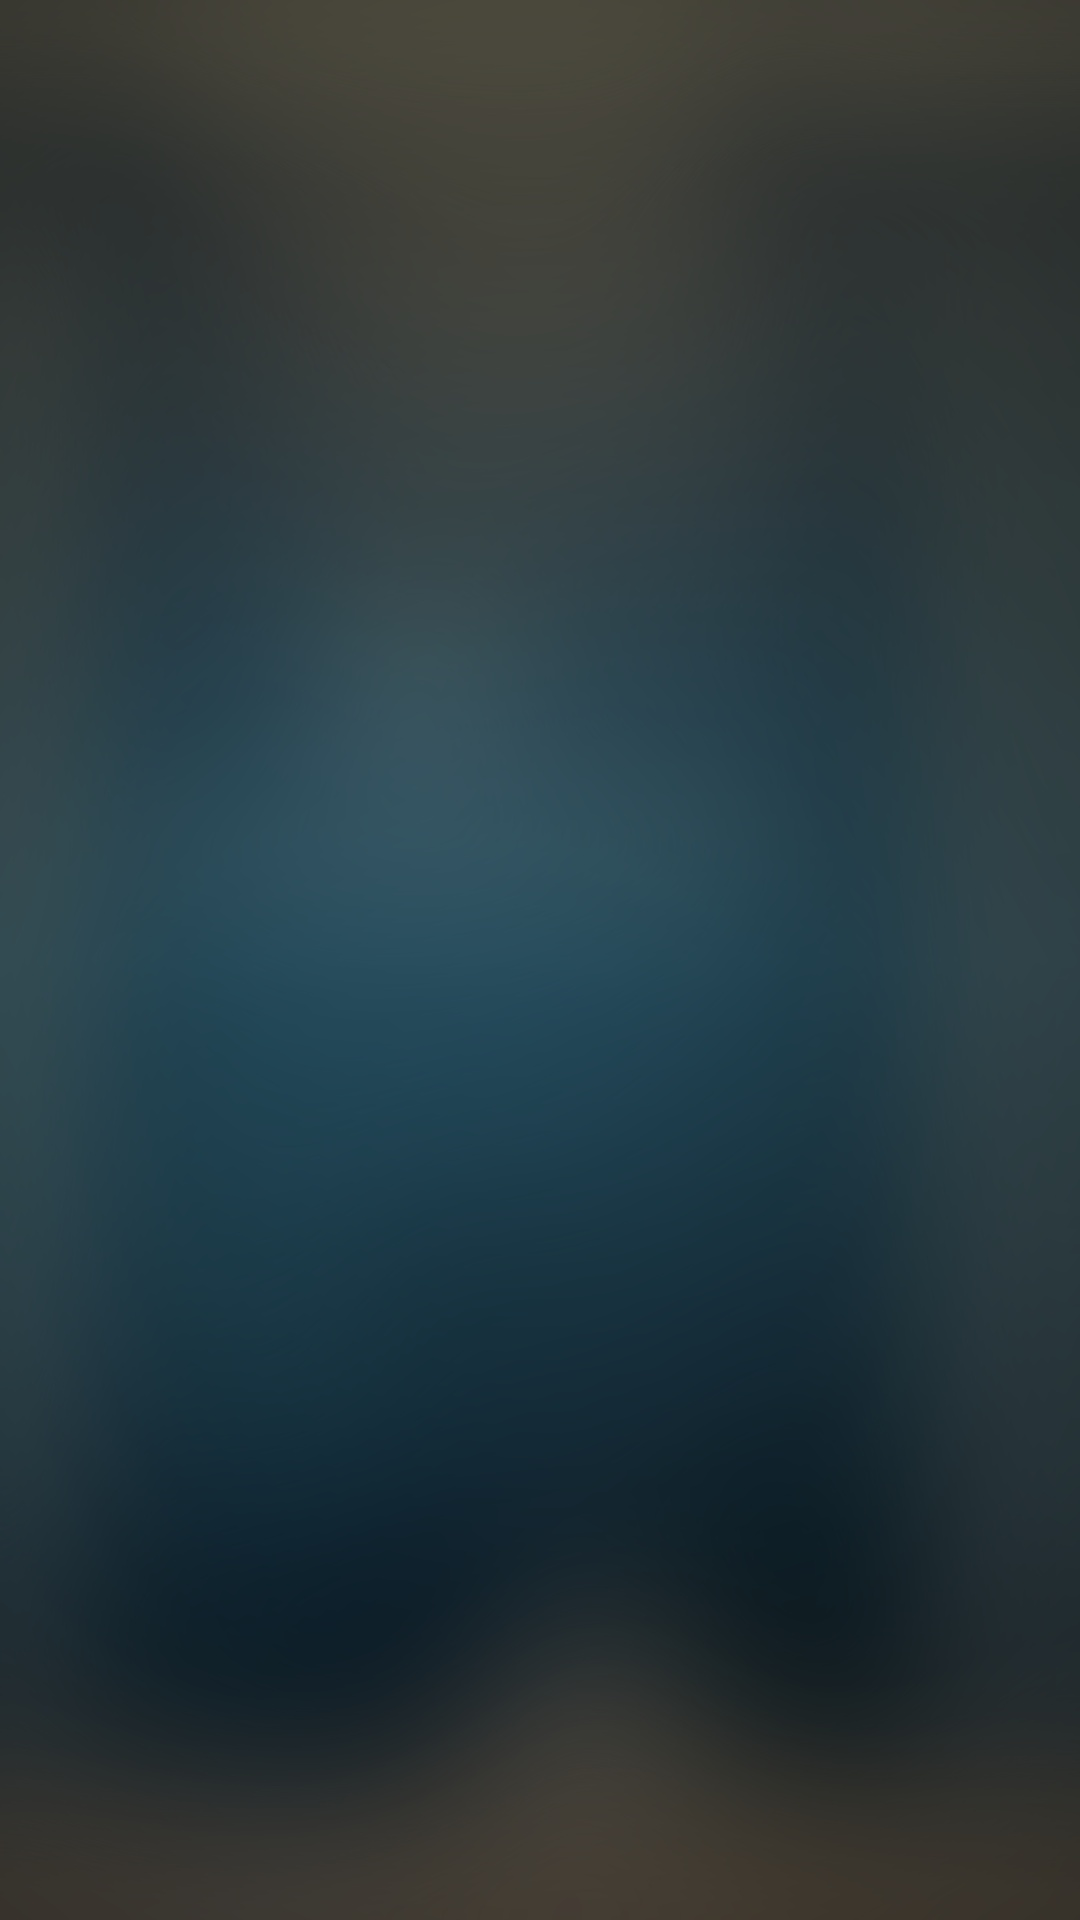
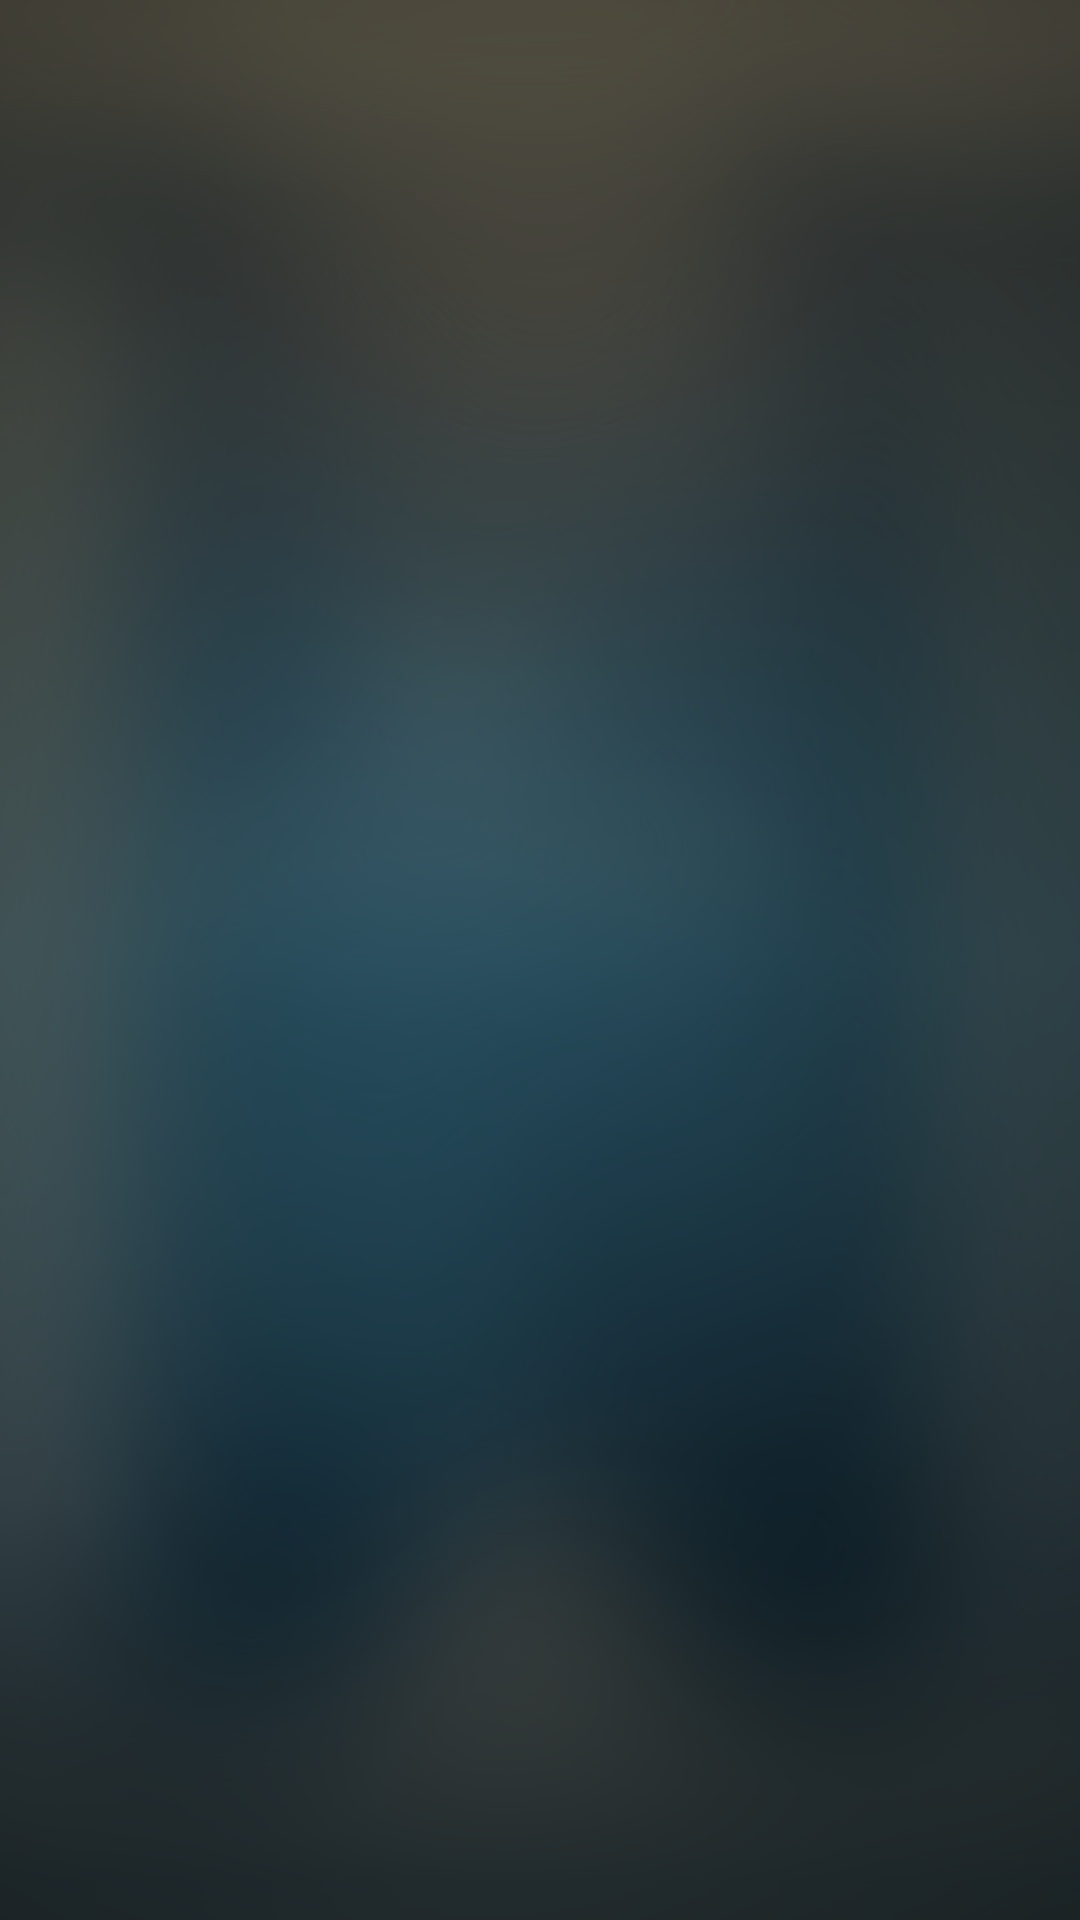
CapriEdit: cut alignment, bottom fade above the cup, larger step labels, background plate from both scenes (render in progress)
Claude-Session: https://claude.ai/code/session_01UVwnxonDbpUHNJim5G49wJ

Changed region(s): [[0.0, 0.9375, 1.0, 1.0], [0.3972, 0.8125, 0.4889, 0.8438]]

diff --git a/remotion-video/src/Capri/Capri.tsx b/remotion-video/src/Capri/Capri.tsx
@@ -50,17 +50,22 @@ const camera = (f: number) => {
   return { scale: 1, blur: 0 };
 };
 
-// ---------- alineación de ella en el corte 2 (medida con el recorte; ver tools/capri/) ----------
-const ALIGN = { len: 16, s: 1, dx: 0, dy: 0, px: 540, py: 1700 };
-const personAlign = (f: number) => {
+// ---------- alineación de ella en el corte 2 (medida con el recorte: ancho de la cabeza 203→177 px, coronilla y 1022→1011, centro x 516→522) ----------
+// Mitad del ajuste en cada lado del corte: justo antes se encoge/desplaza un poco y justo después vuelve desde la posición intermedia.
+const ALIGN = { len: 16, sh: Math.sqrt(177 / 203), dx: 6, dy: -11, pre: { px: 516, py: 1022 }, post: { px: 522, py: 1011 } };
+const personAlign = (f: number): { transform: string; origin: string } | undefined => {
   if (f >= CUT2 - ALIGN.len && f < CUT2) {
     const q = easeIn(clamp01((f - (CUT2 - ALIGN.len)) / ALIGN.len));
-    return `translate(${q * ALIGN.dx}px, ${q * ALIGN.dy}px) scale(${1 + q * (ALIGN.s - 1)})`;
+    return { transform: `translate(${q * ALIGN.dx * 0.5}px, ${q * ALIGN.dy * 0.5}px) scale(${1 + q * (ALIGN.sh - 1)})`, origin: `${ALIGN.pre.px}px ${ALIGN.pre.py}px` };
+  }
+  if (f >= CUT2 && f < CUT2 + ALIGN.len) {
+    const q = 1 - easeOut(clamp01((f - CUT2) / ALIGN.len));
+    return { transform: `translate(${-q * ALIGN.dx * 0.5}px, ${-q * ALIGN.dy * 0.5}px) scale(${1 + q * (1 / ALIGN.sh - 1)})`, origin: `${ALIGN.post.px}px ${ALIGN.post.py}px` };
   }
   return undefined;
 };
 // fila (px) donde el recorte de ella termina contra la mesa, por escena: se funde con un degradado
-const BOTTOM = (f: number) => (f < CUT2 ? 1745 : 1745);
+const BOTTOM = (f: number) => (f < CUT2 ? 1680 : 1610); // por encima de la taza, que forma parte de la mesa y se difumina
 
 // ---------- piezas ----------
 const useSpr = (start: number, damping = 20, stiffness = 90) => {
@@ -125,8 +130,8 @@ const Tarjeta: React.FC<{ it: Item; active: boolean; exitFrom: number; exitLen?:
       }}
     >
       <Marco glow={active} style={{ width: "100%", height: "100%", display: "flex", flexDirection: "column", alignItems: "center", justifyContent: "center" }}>
-        {it.label && <div style={{ fontFamily: "Inter", fontWeight: 500, fontSize: 22, letterSpacing: 6, color: GOLD.deep, marginBottom: 4 }}>{it.label}</div>}
-        <div style={{ fontFamily: "Inter", fontWeight: 800, fontSize: it.mainSize ?? 44, letterSpacing: 2.5, color: GOLD.ink, whiteSpace: "nowrap" }}>
+        {it.label && <div style={{ fontFamily: "Inter", fontWeight: 600, fontSize: 28, letterSpacing: 5, color: GOLD.deep, marginBottom: 2 }}>{it.label}</div>}
+        <div style={{ fontFamily: "Inter", fontWeight: 800, fontSize: it.mainSize ?? 48, letterSpacing: 2.5, color: GOLD.ink, whiteSpace: "nowrap" }}>
           {it.accent ? (
             <>
               {a}
@@ -179,13 +184,14 @@ const ESQ2_OUT = T(20.7);
 const Esquema2: React.FC = () => {
   const f = useCurrentFrame();
   const X = 70;
-  const W = 560;
+  const W = 590;
+  const H = 126;
   const items: Item[] = [
-    { start: T(12.94), main: "CAPRI RESIDENCE", accent: "CAPRI", x: X, y: 250, w: W, h: 120, mainSize: 46 },
-    { start: T(14.5), label: "UNO DE LOS", main: "MÁS COMPLETOS", x: X, y: 392, w: W, h: 112 },
-    { start: T(16.28), label: "UNIDADES DE", main: "2 DORMITORIOS", x: X, y: 522, w: W, h: 112 },
-    { start: T(18.12), label: "AMENITIES", main: "PREMIUM", x: X, y: 652, w: W, h: 112 },
-    { start: T(19.36), label: "UBICACIÓN", main: "EXTRAORDINARIA", x: X, y: 782, w: W, h: 112 },
+    { start: T(12.94), main: "CAPRI RESIDENCE", accent: "CAPRI", x: X, y: 250, w: W, h: 128, mainSize: 50 },
+    { start: T(14.5), label: "UNO DE LOS", main: "MÁS COMPLETOS", x: X, y: 396, w: W, h: H },
+    { start: T(16.28), label: "UNIDADES DE", main: "2 DORMITORIOS", x: X, y: 538, w: W, h: H },
+    { start: T(18.12), label: "AMENITIES", main: "PREMIUM", x: X, y: 680, w: W, h: H },
+    { start: T(19.36), label: "UBICACIÓN", main: "EXTRAORDINARIA", x: X, y: 822, w: W, h: H },
   ];
   let act = 0;
   items.forEach((it, i) => {
@@ -222,6 +228,7 @@ export const CapriEdit: React.FC = () => {
   const hasMatte = f >= M_FIRST && f <= M_LAST;
   const n = String(Math.min(Math.max(f, M_FIRST), M_LAST)).padStart(4, "0");
   const b = BOTTOM(f);
+  const al = personAlign(f);
   const drift = 1 + 0.05 * clamp01((f - CUT1) / (CUT3 - CUT1)); // el fondo respira muy despacio
   return (
     <AbsoluteFill style={{ background: "#000" }}>
@@ -237,9 +244,9 @@ export const CapriEdit: React.FC = () => {
         {/* tarjetas de detrás de ella */}
         <TarjetaVacia x={-70} y={170} w={500} h={1190} start={T(7.0)} end={T(9.0)} rotY={14} rotZ={-1.5} from="left" />
         <TarjetaVacia x={650} y={250} w={480} h={1060} start={T(7.4)} end={T(9.0)} rotY={-26} rotZ={0} from="right" />
-        <TarjetaVacia x={640} y={250} w={480} h={1060} start={T(18.4)} end={T(20.7)} rotY={-22} rotZ={0} from="right" />
+        <TarjetaVacia x={710} y={250} w={440} h={1060} start={T(18.4)} end={T(20.7)} rotY={-22} rotZ={0} from="right" />
         {hasMatte && (
-          <AbsoluteFill style={{ transform: personAlign(f), transformOrigin: `${ALIGN.px}px ${ALIGN.py}px` }}>
+          <AbsoluteFill style={{ transform: al?.transform, transformOrigin: al?.origin }}>
             <Img src={staticFile(`recorte_edit/m_${n}.webp`)} style={{ width: "100%", height: "100%", WebkitMaskImage: `linear-gradient(to bottom, #000 0px, #000 ${b - 130}px, transparent ${b}px)`, maskImage: `linear-gradient(to bottom, #000 0px, #000 ${b - 130}px, transparent ${b}px)` }} />
           </AbsoluteFill>
         )}
